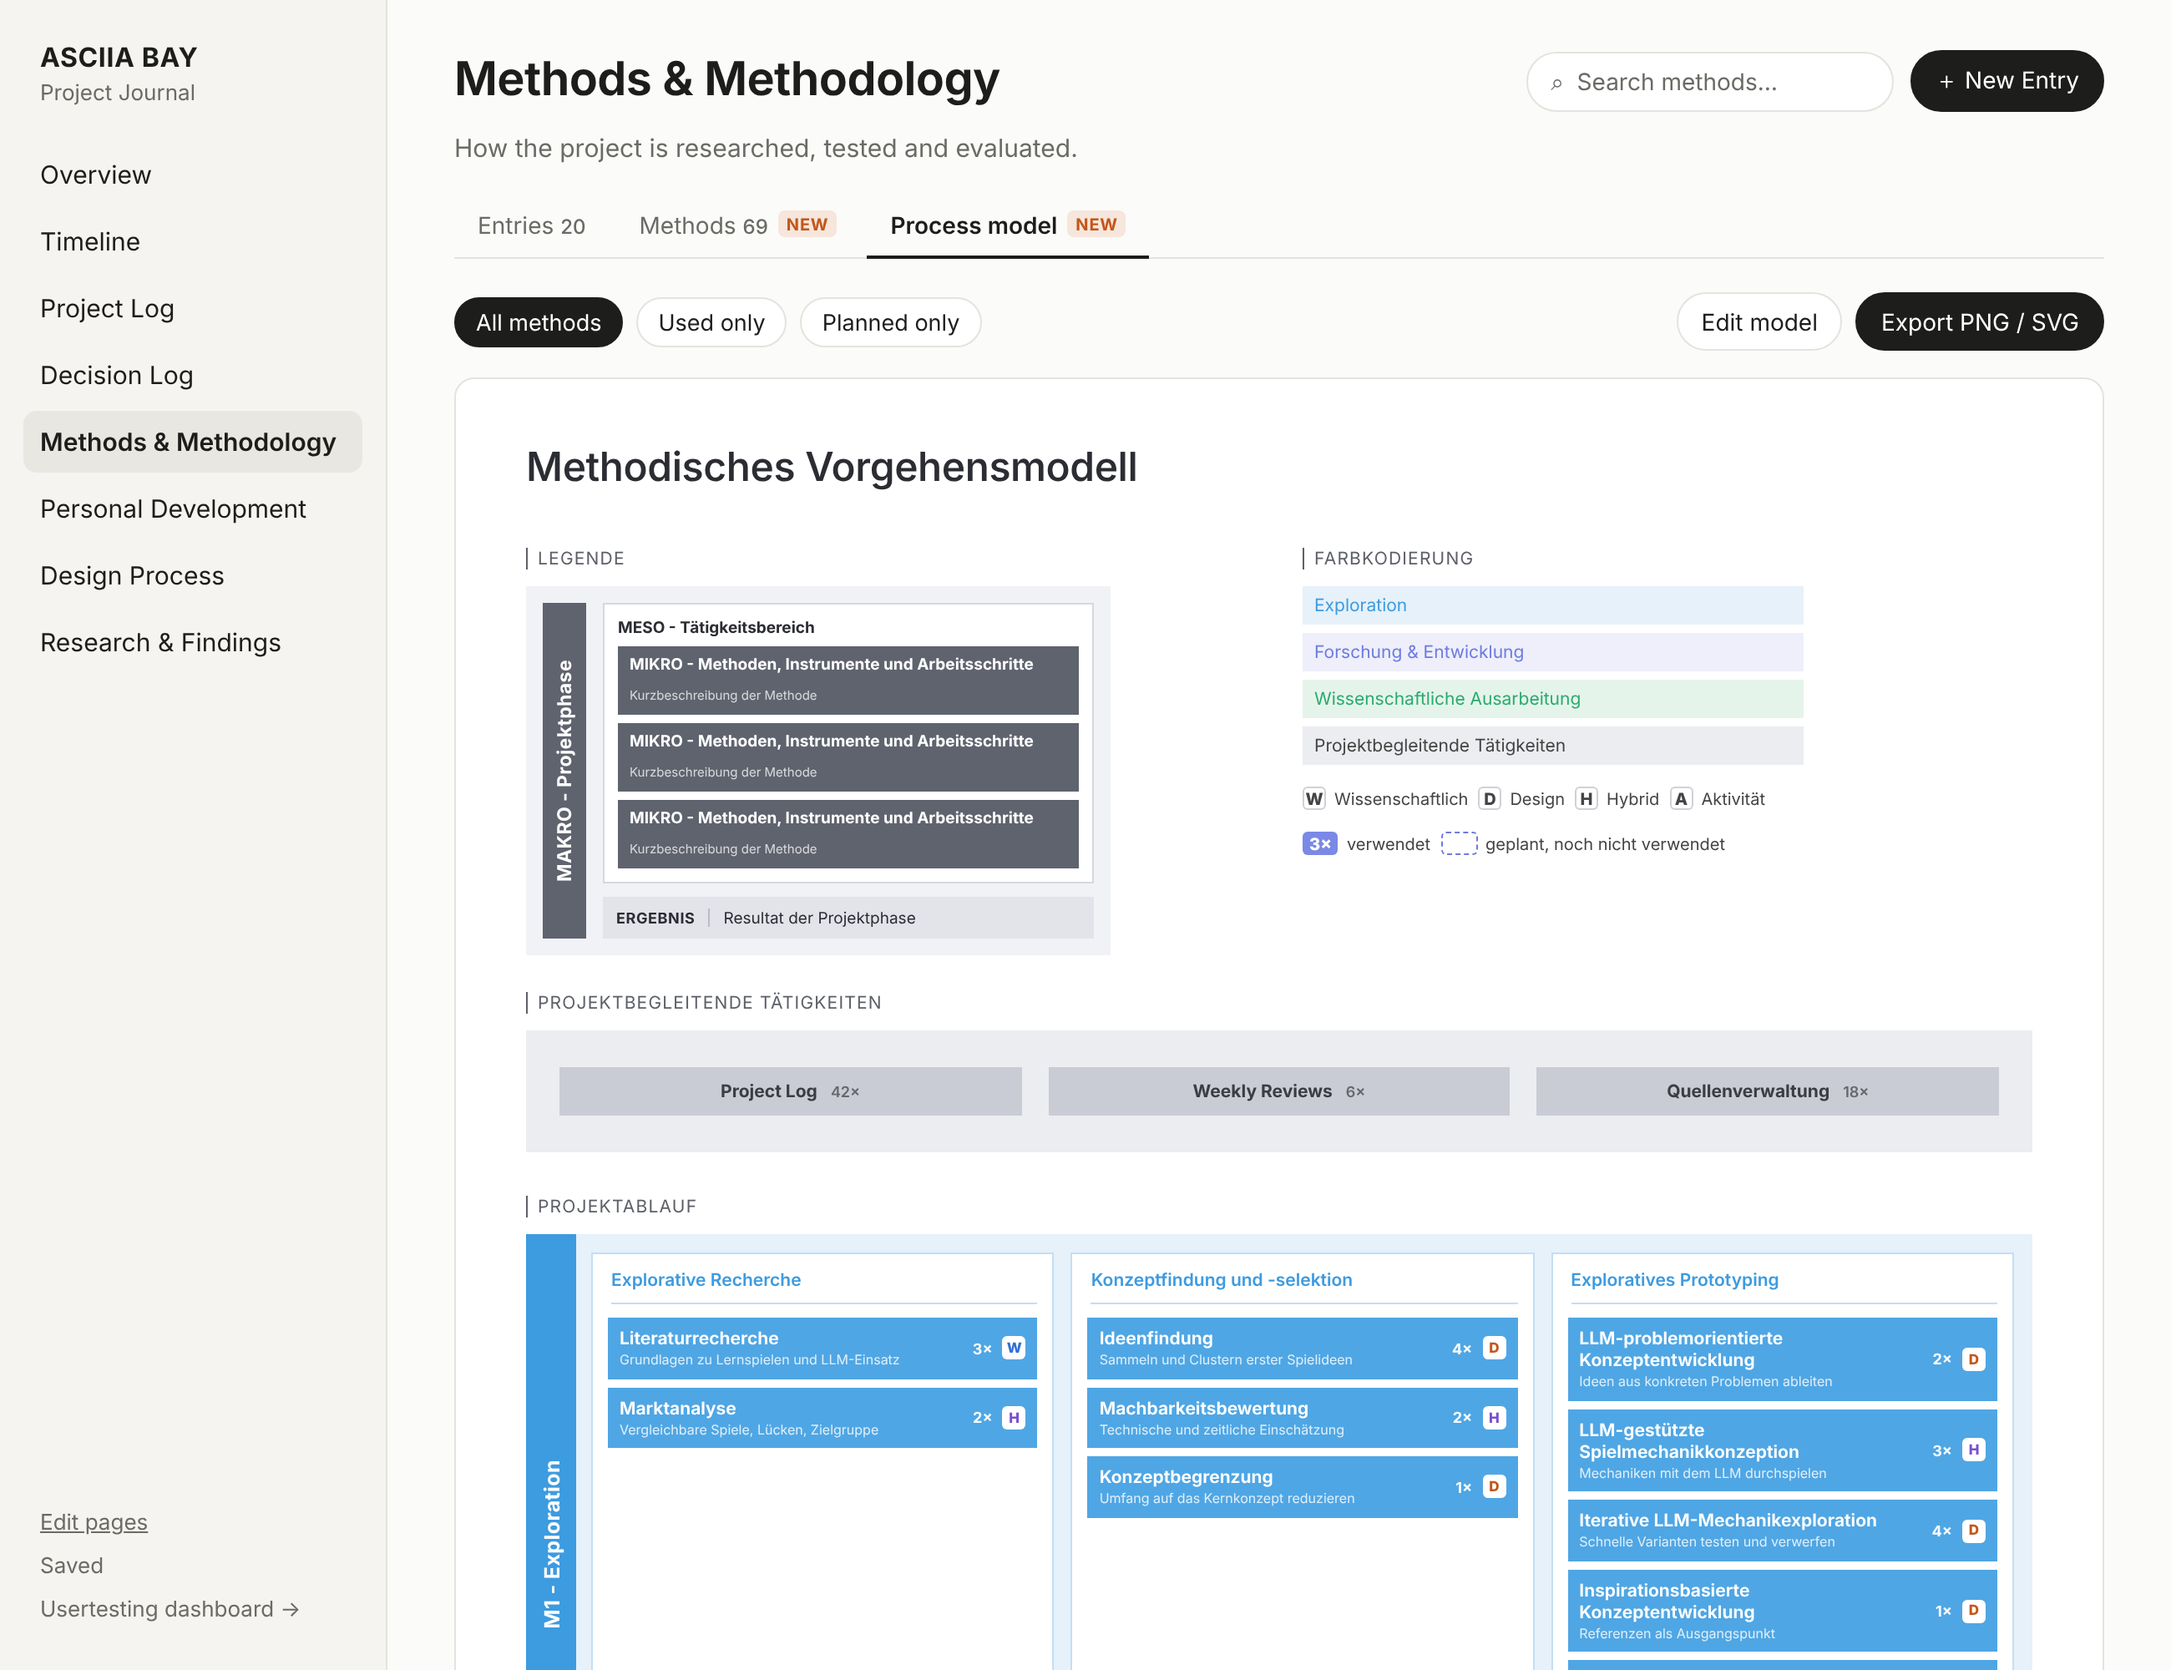
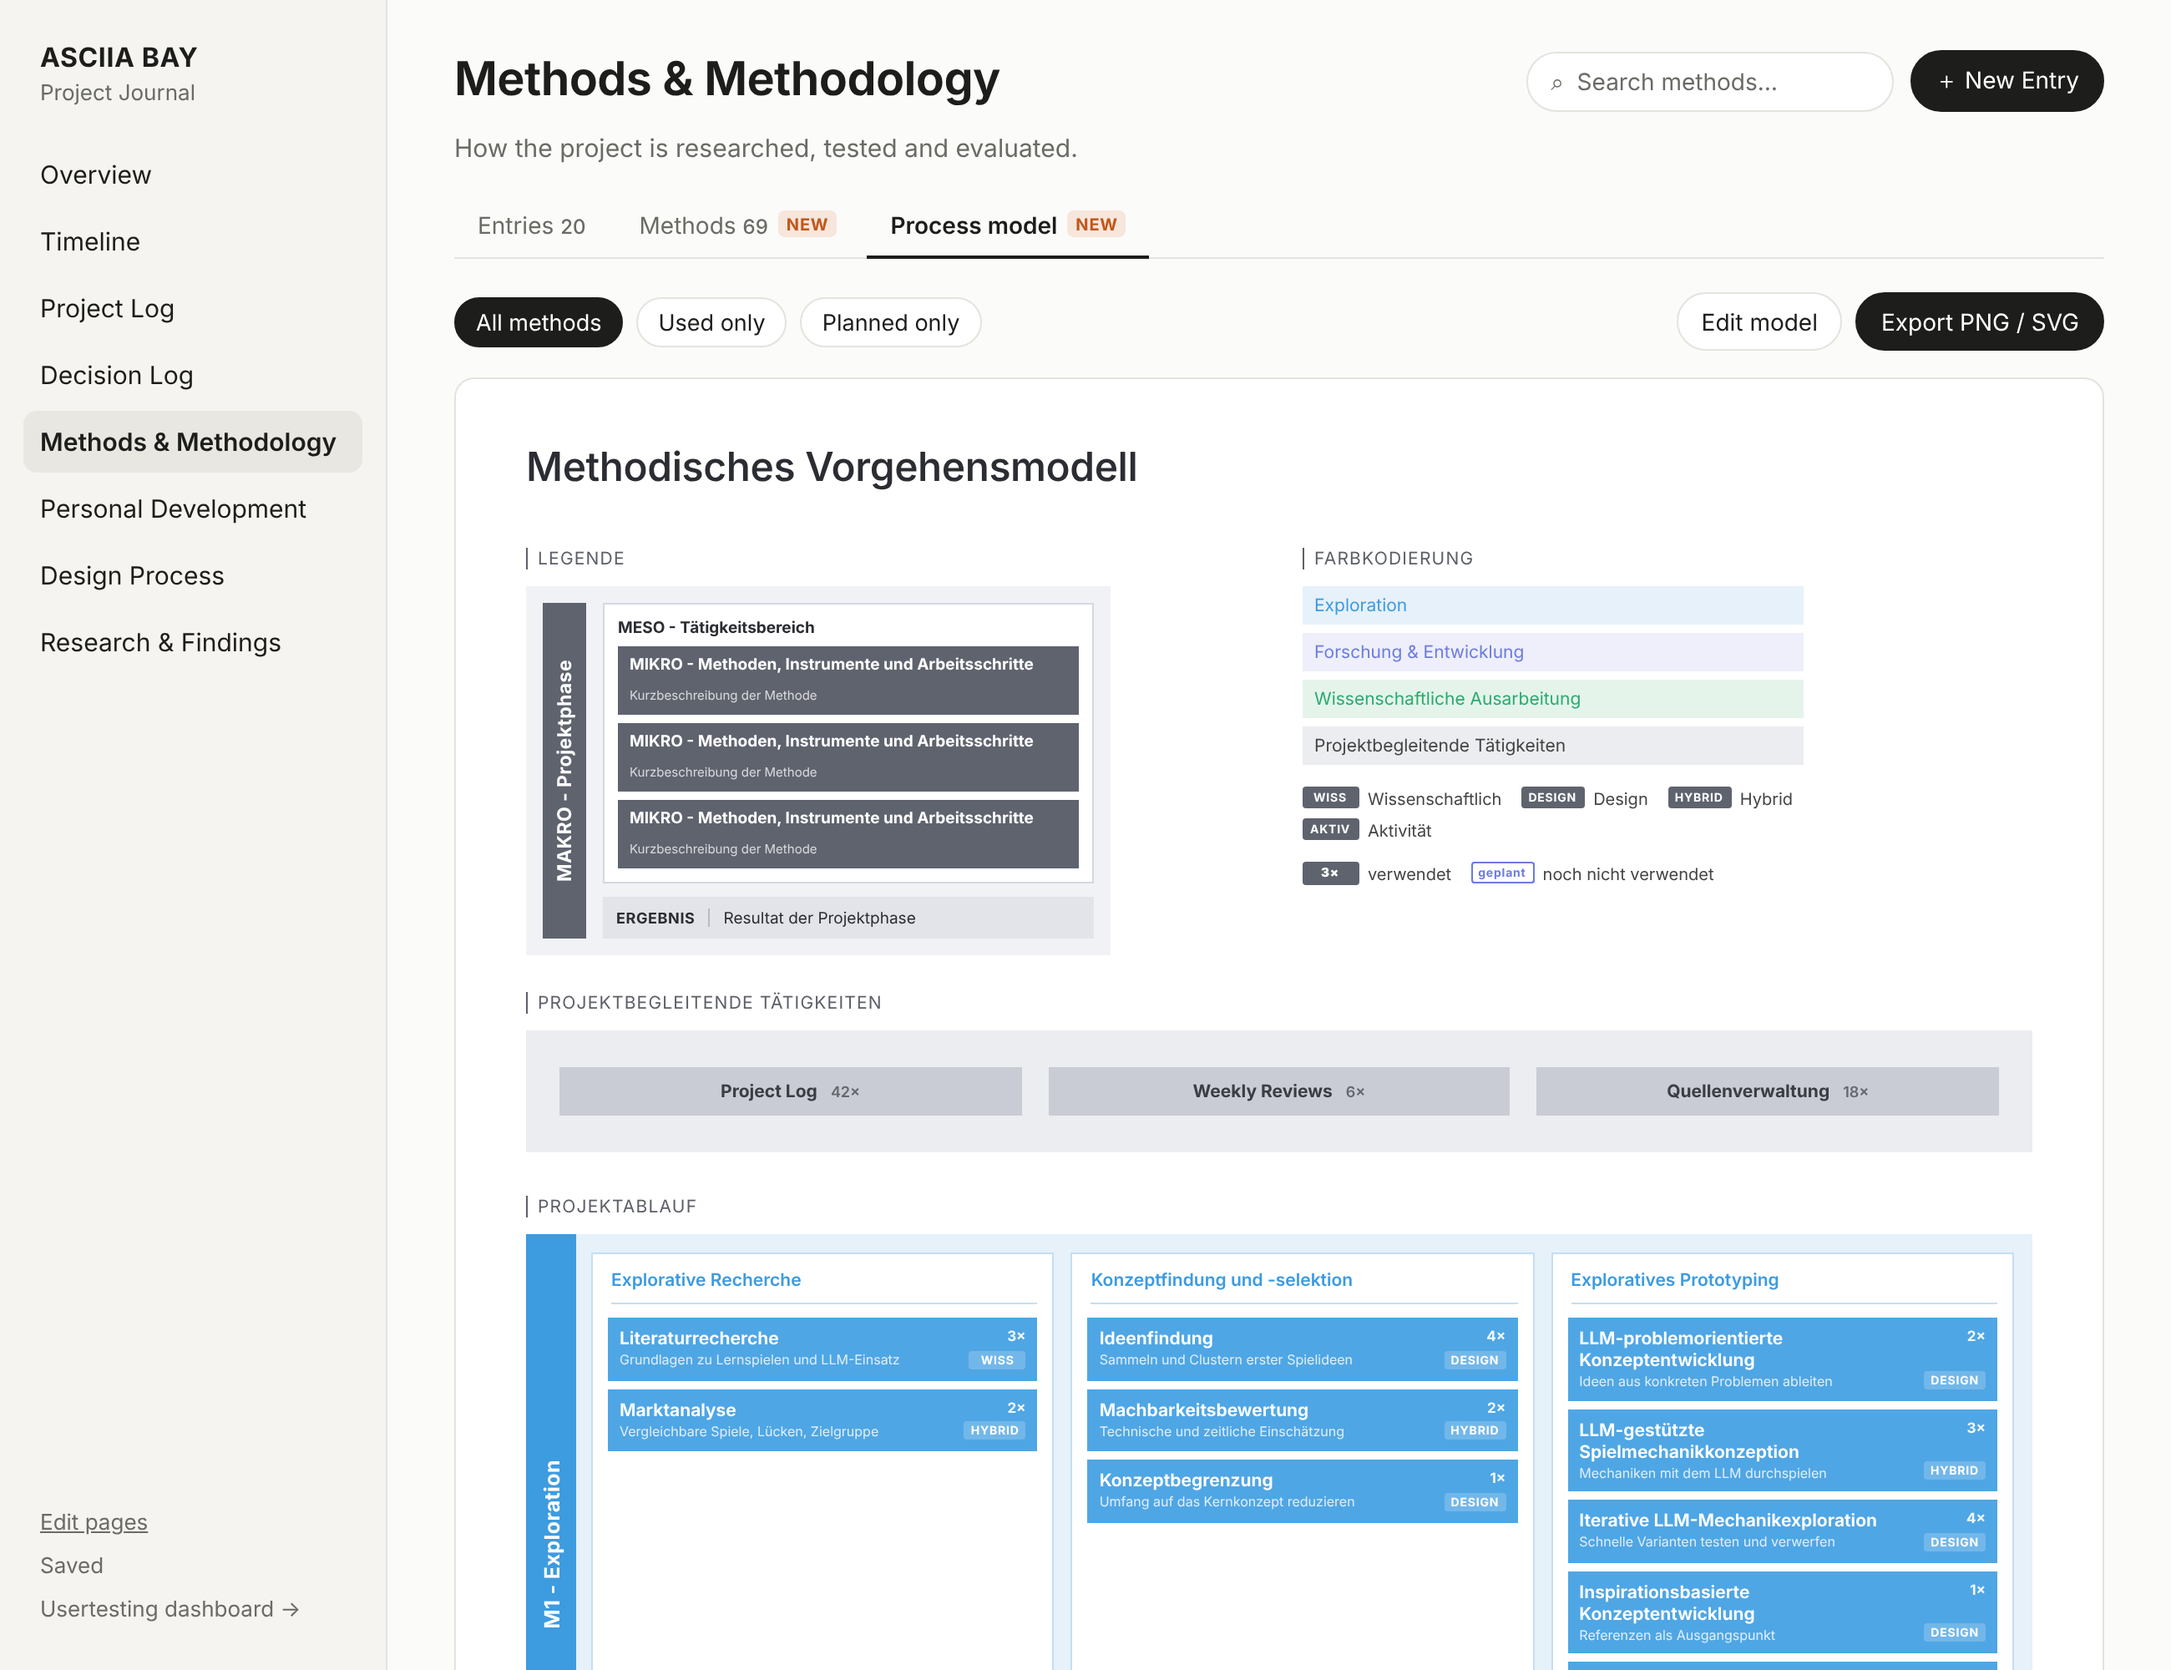
Design (journal): method type as a tone-on-tone tag in the process model rows
Claude-Session: https://claude.ai/code/session_01SdonzUkZukdS6Hs9N1LRbm

diff --git a/design/journal-methods/mockup.html b/design/journal-methods/mockup.html
@@ -148,6 +148,19 @@ table.mt{width:100%;border-collapse:separate;border-spacing:0;background:var(--p
 .fu .bar{background:var(--fuB)}.fu{background:var(--fuL)}.fu .meso{outline:1px solid var(--fuC)}.fu .mz{color:var(--fuB);border-color:var(--fuC)}.fu .mi2{background:var(--fuR)}.fu .mi2.un{border-color:var(--fuB);color:var(--fuB)}.fu .erg{background:#dfe2f7}
 .wa .bar{background:var(--waB)}.wa{background:var(--waL)}.wa .meso{outline:1px solid var(--waC)}.wa .mz{color:var(--waB);border-color:var(--waC)}.wa .mi2{background:var(--waR)}.wa .mi2.un{border-color:var(--waB);color:var(--waB)}.wa .erg{background:#d1ecdc}
 .mi2 .bd{display:inline-flex;margin:0;opacity:1;font-size:8.5px;line-height:1}
+/* type tag: tone on tone in the row, one coloured dot */
+.mi2{align-items:stretch}
+.mi2 .rs{display:flex;flex-direction:column;align-items:flex-end;justify-content:space-between;gap:4px;flex:none;padding:1px 0}
+.mi2 .ct{font-style:normal;font-size:8.5px;font-weight:700;opacity:.92;line-height:1}
+.tg{font-style:normal;display:inline-flex;align-items:center;gap:3px;min-width:34px;justify-content:center;font-size:7px;font-weight:700;letter-spacing:.4px;background:rgba(255,255,255,.2);border-radius:2px;padding:2px 4px;line-height:1;color:#fff;white-space:nowrap}
+.tg u{width:5px;height:5px;border-radius:50%;box-shadow:0 0 0 1px rgba(255,255,255,.65);display:inline-block}
+.tg.W u{background:var(--tW)}.tg.D u{background:var(--tD)}.tg.H u{background:var(--tH)}.tg.A u{background:#9a9a92}
+.mi2.un .tg{background:transparent;box-shadow:inset 0 0 0 1px currentColor;color:inherit}
+.mi2.un .tg u{box-shadow:none}
+.mi2.un .ct{font-weight:600;opacity:.8;font-size:7.5px;letter-spacing:.2px}
+.tg.lg{background:#5f636e;margin-right:5px;padding:3px 5px 3px 4px}
+.tg.lg.un{background:transparent;color:#6c7be0;box-shadow:inset 0 0 0 1px #6c7be0;border:0;outline:1px dashed #6c7be0;outline-offset:-1px}
+.fk .tl span{gap:0;margin-right:6px}
 .mi2.sel{outline:2px solid #1d1d1b;outline-offset:2px}
 /* method drawer */
 .md .facts{display:grid;grid-template-columns:110px 1fr;gap:10px 14px;font-size:14px;margin:16px 0 6px}
@@ -227,7 +240,8 @@ const head = (tab) => `<div class="head"><h1>Methods &amp; Methodology</h1><div 
 <div class="tabs"><span class="tab ${tab === 'entries' ? 'on' : ''}">Entries<span class="n">20</span></span><span class="tab ${tab === 'table' ? 'on' : ''}">Methods<span class="n">69</span><span class="new">NEW</span></span><span class="tab ${tab === 'model' ? 'on' : ''}">Process model<span class="new">NEW</span></span></div>`;
 
 function model(selName) {
-  const mi = ([n, s, t, u]) => `<div class="mi2 ${u ? '' : 'un'} ${n === selName ? 'sel' : ''}"><div class="tx"><b>${n}</b><span>${s}</span></div>${u ? `<span class="ct">${u}×</span>` : ''}<span class="bd ${t}">${t}</span></div>`;
+  const TAG = { W: 'WISS', D: 'DESIGN', H: 'HYBRID', A: 'AKTIV' };
+  const mi = ([n, s, t, u]) => `<div class="mi2 ${u ? '' : 'un'} ${n === selName ? 'sel' : ''}"><div class="tx"><b>${n}</b><span>${s}</span></div><div class="rs"><em class="ct">${u ? u + '×' : 'geplant'}</em><i class="tg ${t}">${TAG[t]}</i></div></div>`;
   const phase = (p) => {
     const all = p.meso.flatMap((m) => m[1]); const used = all.filter((x) => x[3]).length;
     return `<div class="ph ${p.c}"><div class="bar"><span class="vt">${p.id} - ${p.name}</span></div><div class="body">
@@ -239,8 +253,8 @@ function model(selName) {
     <div class="meso"><div class="mt2">MESO - Tätigkeitsbereich</div>${[0, 1, 2].map(() => `<div class="mi"><b>MIKRO - Methoden, Instrumente und Arbeitsschritte</b><span>Kurzbeschreibung der Methode</span></div>`).join('')}</div>
     <div class="erg"><b>ERGEBNIS</b>Resultat der Projektphase</div></div></div></div>
    <div><div class="sec">Farbkodierung</div><div class="fk"><div class="k1">Exploration</div><div class="k2">Forschung &amp; Entwicklung</div><div class="k3">Wissenschaftliche Ausarbeitung</div><div class="k4">Projektbegleitende Tätigkeiten</div>
-    <div class="tl">${Object.entries(T).map(([k, v]) => `<span><span class="bd ${k} o">${k}</span>${({ W: 'Wissenschaftlich', D: 'Design', H: 'Hybrid', A: 'Aktivität' })[k]}</span>`).join('')}</div>
-    <div class="tl"><span><span class="bd o" style="background:#7b89e6;color:#fff;box-shadow:none;width:auto;padding:0 4px">3×</span>verwendet</span><span><span class="bd o" style="border:1px dashed #6c7be0;box-shadow:none;width:22px"></span>geplant, noch nicht verwendet</span></div></div></div></div>
+    <div class="tl">${Object.entries(T).map(([k]) => `<span><i class="tg ${k} lg">${({ W: 'WISS', D: 'DESIGN', H: 'HYBRID', A: 'AKTIV' })[k]}</i>${({ W: 'Wissenschaftlich', D: 'Design', H: 'Hybrid', A: 'Aktivität' })[k]}</span>`).join('')}</div>
+    <div class="tl"><span><i class="tg lg"><b style="font-size:7.5px">3×</b></i>verwendet</span><span><i class="tg lg un">geplant</i>noch nicht verwendet</span></div></div></div></div>
   <div class="sec">Projektbegleitende Tätigkeiten</div>
   <div class="pb"><div>Project Log <em>42×</em></div><div>Weekly Reviews <em>6×</em></div><div>Quellenverwaltung <em>18×</em></div></div>
   <div class="sec">Projektablauf</div>${PHASES.map(phase).join('')}</div>`;

diff --git a/design/journal-methods/README.md b/design/journal-methods/README.md
@@ -13,5 +13,5 @@ Noch nicht umgesetzt. `mockup.html?v=task|picker|newm|table|model|drawer|mtable`
 | 07–08 | Mobil: Modell einspaltig, Tabelle als Karten |
 | 09 | Das ganze Vorgehensmodell (Export-Ansicht) |
 
-- Zeilenfarbe = Phase (wie Referenz); Typ als Badge W / D / H / A; „3×“ = verwendet, gestrichelt = geplant.
+- Zeilenfarbe = Phase (wie Referenz); Typ als Ton-in-Ton-Tag unten rechts in der Zeile (WISS · DESIGN · HYBRID · AKTIV), oben rechts „3×“ = verwendet bzw. „geplant“ (Zeile gestrichelt).
 - Fortschritt je Phase im Ergebnis-Band („6/14 verwendet“).
